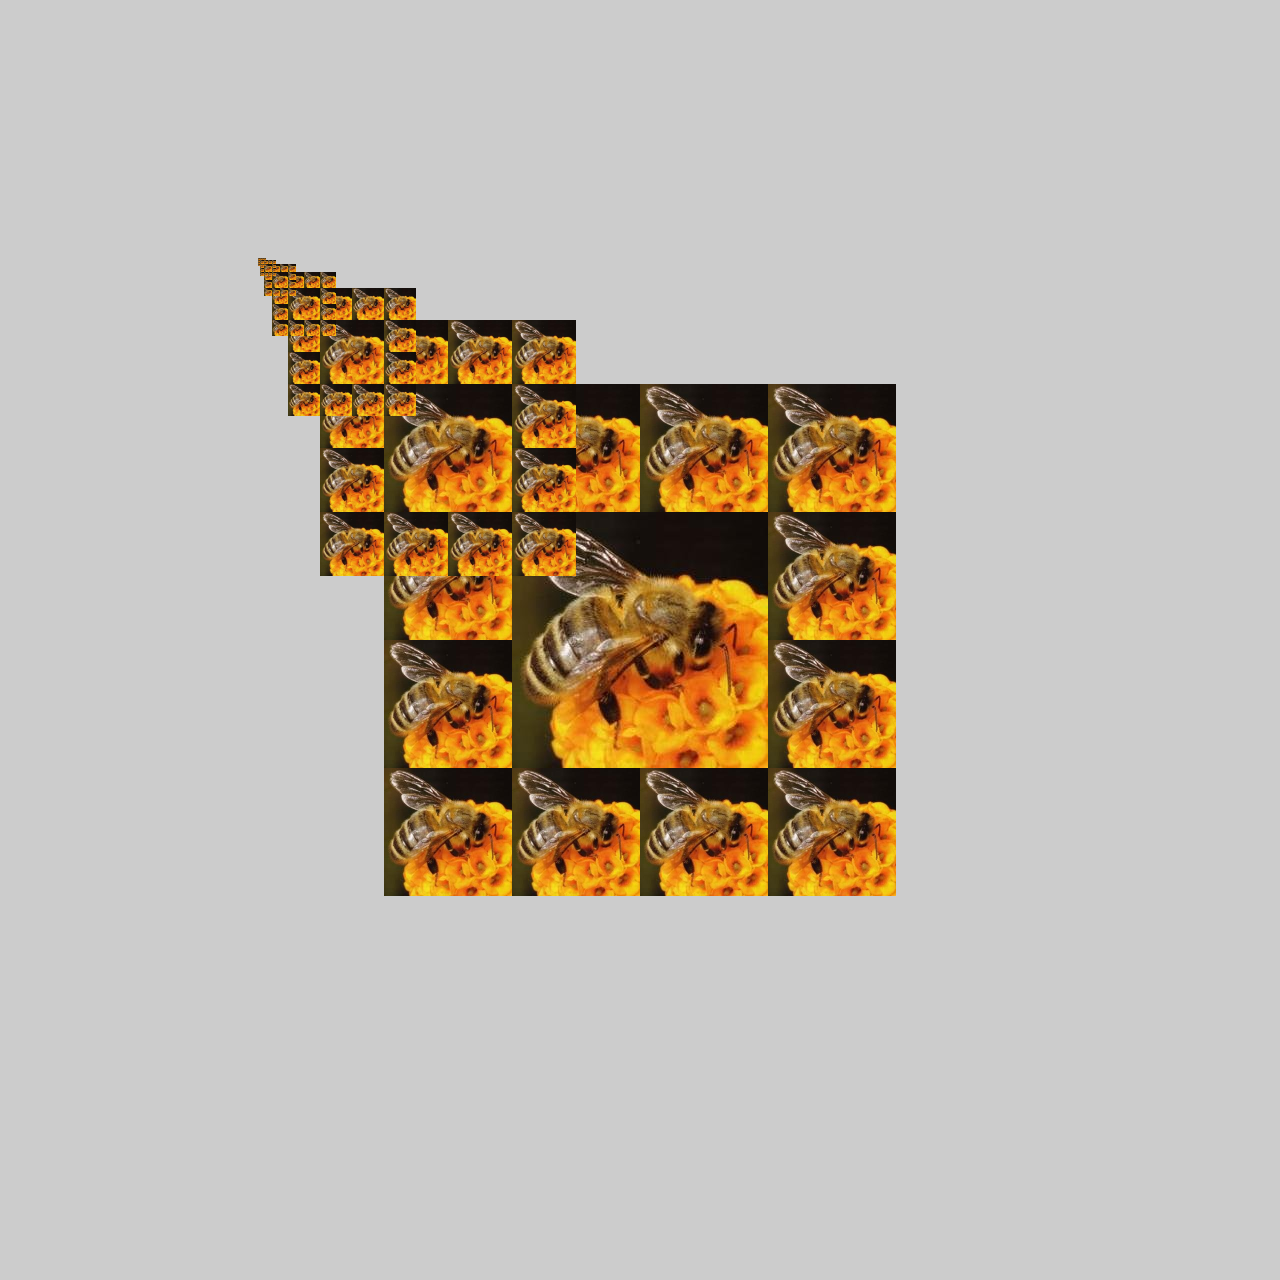
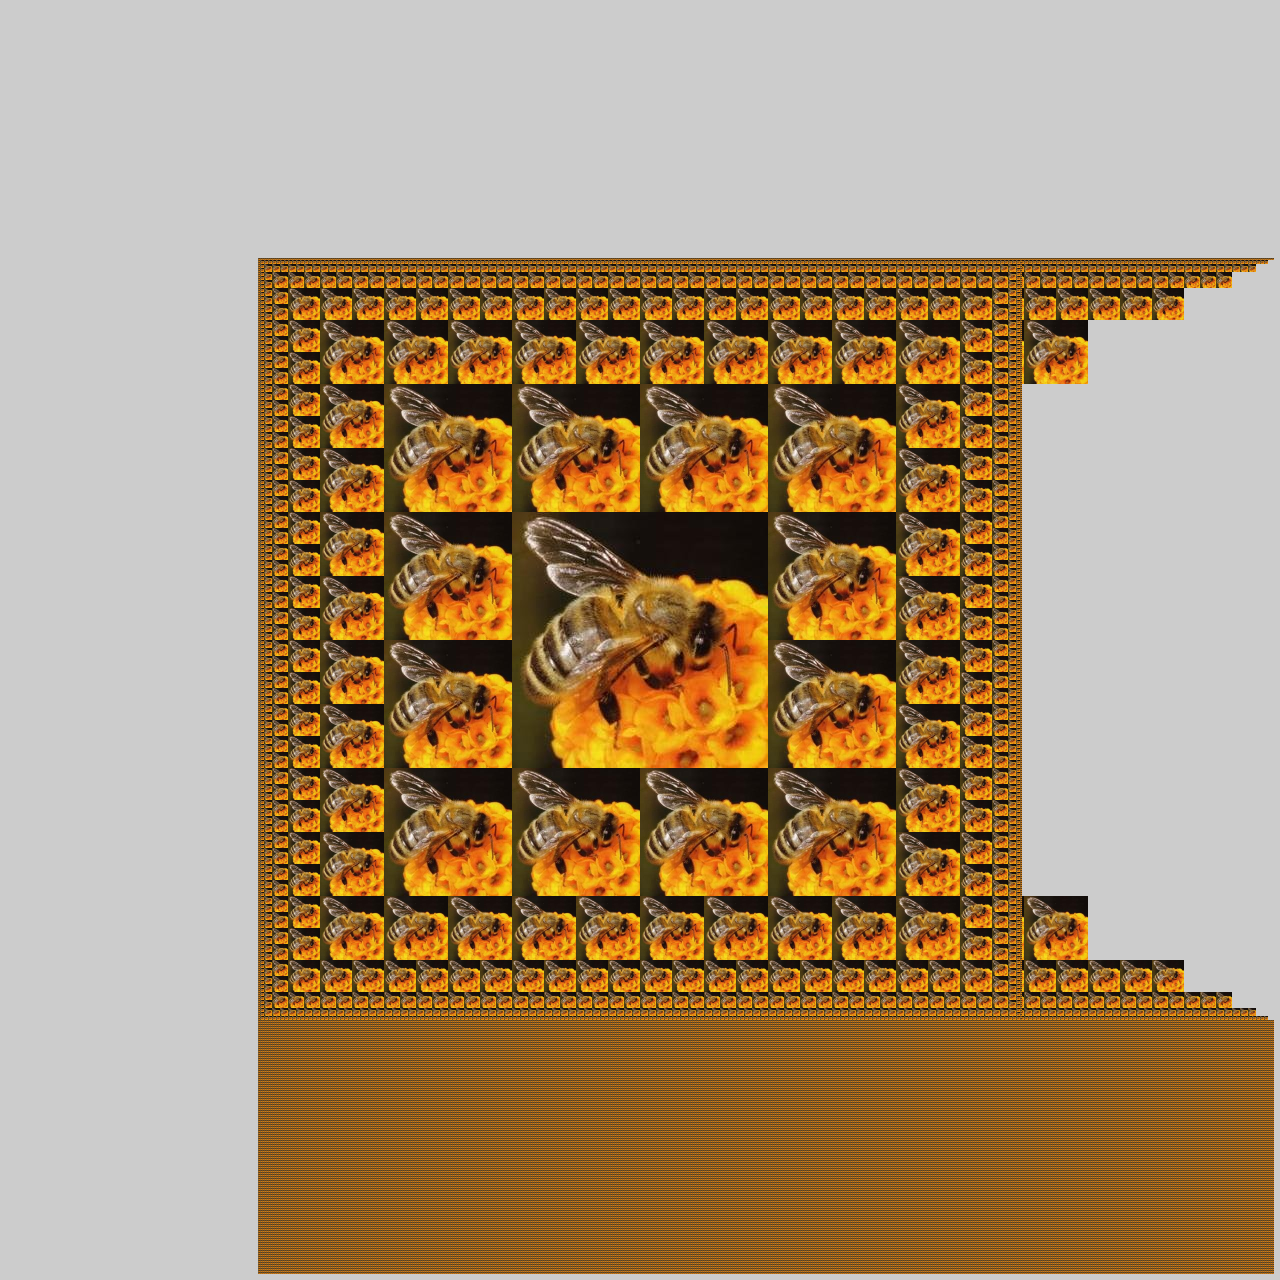
The result is essentially what I want but it has trails extending beyond where they're supposed to, both to the right and downwards

diff --git a/src/main/java/fractal_mosaic/model/FractalMosaic.java b/src/main/java/fractal_mosaic/model/FractalMosaic.java
@@ -27,27 +27,31 @@ public class FractalMosaic implements Drawable {
         System.out.println(String.format("Rrequired window size:\nwidth - %d\nheight - %d", size.x, size.y));
         // 2. colocar la imagen en el sentro del lienzo
          processing.image(image.get(), image.getX(), image.getY());
-        recursivelyDrawImageMultipleTimesFormingAFrame(processing, image);
+        recursivelyDrawImageMultipleTimesFormingAFrame(processing, image, new Point());
     }
 
-    private void recursivelyDrawImageMultipleTimesFormingAFrame(PApplet processing, PositionedImage previousImage) {
-        // 3. redimensionar la imagen original a un cuarto de su tamaño
+    private void recursivelyDrawImageMultipleTimesFormingAFrame(PApplet processing, PositionedImage previousImage, Point distanceFromCentralImage) {
+        // 3. copiar y redimensionar la imagen original a un cuarto de su tamaño
         PositionedImage image = previousImage.copy();
         resizeToAQuarter(image);
+
         // 5. si la imagen resultante tiene los lados más grandes que 1
         if (image.getWidth() > 1 && image.getHeight() > 1) {
-            // encontrar la nueva posicion de la imagen mas pequeña
+
+            // asignar la nueva posicion de la imagen mas pequeña
             image.setX(previousImage.getX() - image.getWidth());
             image.setY(previousImage.getY() -image.getHeight());
+
             // 4. dibujar marco
-            drawFrame(processing, image, previousImage);
+            drawFrame(processing, image, previousImage, distanceFromCentralImage);
+
             // llamada recursiva
-            recursivelyDrawImageMultipleTimesFormingAFrame(processing, image);
+            recursivelyDrawImageMultipleTimesFormingAFrame(processing, image, distanceFromCentralImage);
 
         }
     }
 
-    private void drawFrame(PApplet processing, PositionedImage currentImage, PositionedImage previousImage) {
+    private void drawFrame(PApplet processing, PositionedImage currentImage, PositionedImage previousImage, Point distanceFromCentralImage) {
         // TODO: implement
         Point distanceBetweenImages = new Point(
         // dividir el ancho de la PreviousImage entre dos
@@ -55,6 +59,10 @@ public class FractalMosaic implements Drawable {
         // dividir el ancho de la PreviousImage entre dos
                 previousImage.getHeight() / 2
         );
+
+        // sumar a la distancia desde la imagen central la separación entre imagenes en el marco que se está por dibujar
+        distanceFromCentralImage.translate(distanceBetweenImages.x, distanceBetweenImages.y);
+
         // calcular el punto de inicio
         Point framePosition = new Point(
                 previousImage.getX() - distanceBetweenImages.x,
@@ -63,15 +71,15 @@ public class FractalMosaic implements Drawable {
 
 
         // for (height)
-        for (int y = framePosition.y; y < framePosition.y + (previousImage.getHeight() * 2); y += distanceBetweenImages.y) {
+        for (int y = framePosition.y; y < framePosition.y + (distanceFromCentralImage.y * 4); y += distanceBetweenImages.y) {
         boolean isFirstIteration = y == framePosition.y;
-        boolean isLastIteration = y >= framePosition.y + (distanceBetweenImages.y * 3);
+        boolean isLastIteration = y >= framePosition.y + (distanceFromCentralImage.y * 3);
 
             // if first or last
             if (isFirstIteration || isLastIteration) {
                 // draw row
                 // for (width)
-                for (int x = framePosition.x; x < framePosition.y + (previousImage.getWidth() * 2); x += distanceBetweenImages.x) {
+                for (int x = framePosition.x; x < framePosition.x + (distanceFromCentralImage.x * 4); x += distanceBetweenImages.x) {
                     processing.image(currentImage.get(), x, y);
                 }
 
@@ -79,14 +87,9 @@ public class FractalMosaic implements Drawable {
             } else {
                 // draw only first and last
                 processing.image(currentImage.get(), framePosition.x ,y);
-                processing.image(currentImage.get(), framePosition.x + (distanceBetweenImages.x * 3), y);
+                processing.image(currentImage.get(), framePosition.x + (distanceFromCentralImage.x * 3), y);
             }
         }
-
-    }
-
-    private void drawFrame(PApplet processing, PositionedImage currentImage, PositionedImage previousImage,
-                           Point distanceFromCentralImage) {
 
     }
 
